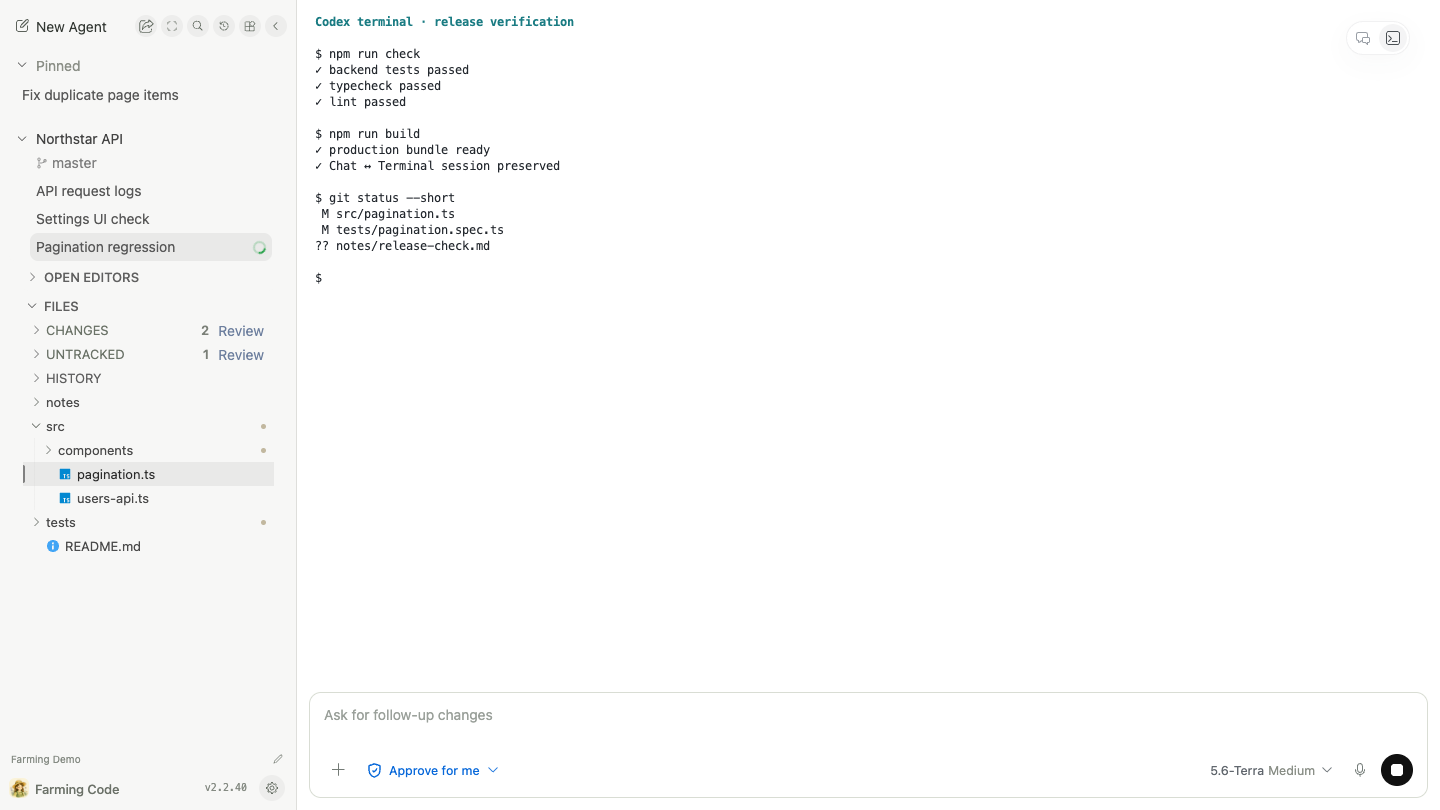
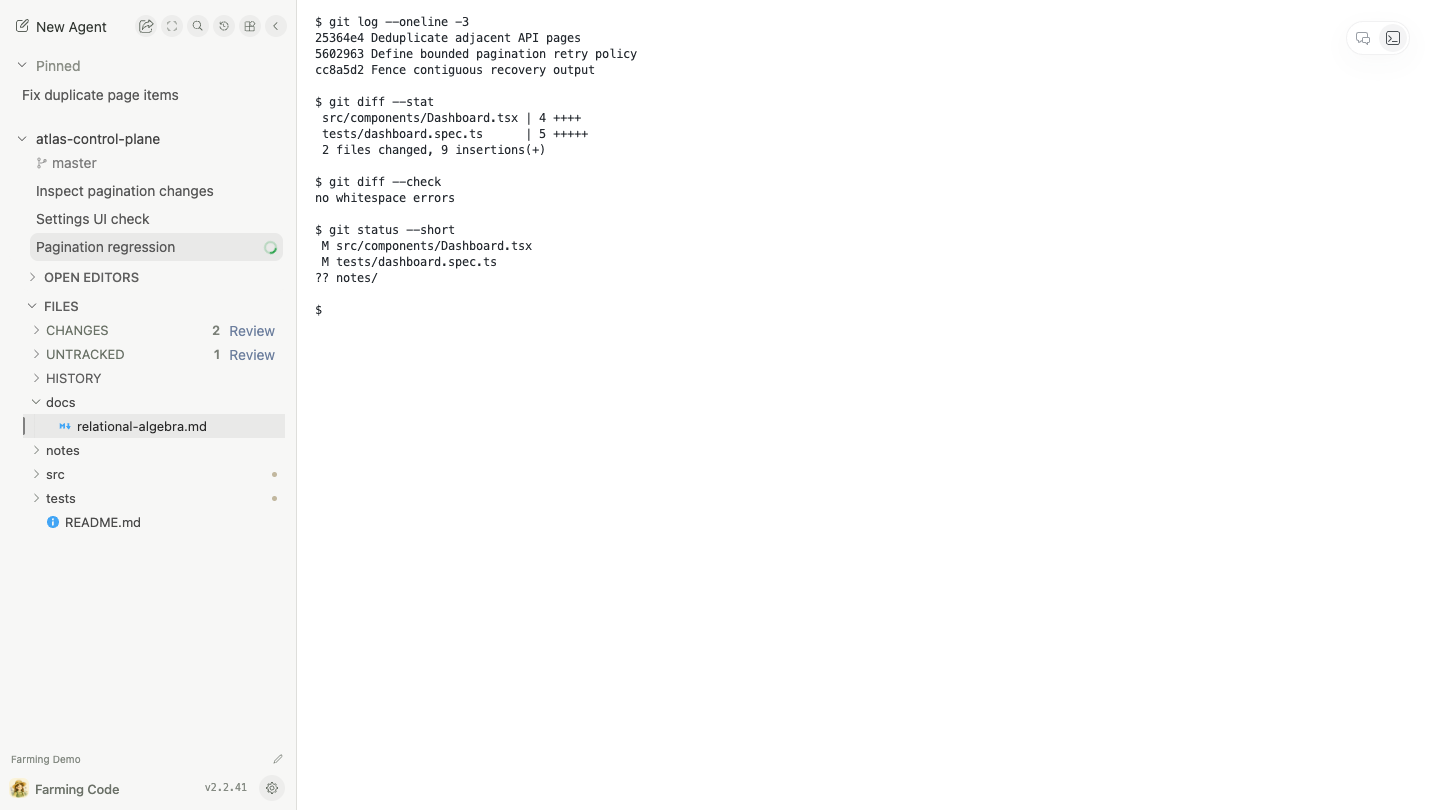
fix(docs): refresh terminal screenshots

diff --git a/scripts/capture-product-screenshots.ts b/scripts/capture-product-screenshots.ts
@@ -35,7 +35,7 @@ const publicCodeScreenshotSpecs = new Map<string, PublicScreenshotSpec>([
   ['08-history-search.png', { fileName: 'history.png', clip: { x: 300, y: 0, width: 1140, height: 810 } }],
   ['09-dark-workspace.png', { fileName: 'workspace-dark.png' }],
   ['11-code-agent-process.png', { fileName: 'chat.png', clip: { x: 300, y: 0, width: 1140, height: 810 } }],
-  ['12-code-terminal-session.png', { fileName: 'terminal.png', clip: { x: 300, y: 0, width: 1140, height: 810 } }],
+  ['12-code-terminal-session.png', { fileName: 'terminal-20260806.png', clip: { x: 300, y: 0, width: 1140, height: 810 } }],
   ['13-code-search.png', { fileName: 'search.png', clip: { x: 300, y: 0, width: 1140, height: 810 } }],
   ['14-code-settings.png', { fileName: 'settings.png', clip: { x: 920, y: 0, width: 520, height: 430 } }],
   ['15-code-usage-activity.png', { fileName: 'usage-activity.png' }],
@@ -47,7 +47,7 @@ const publicCodeScreenshotSpecs = new Map<string, PublicScreenshotSpec>([
 const publicCrtScreenshotSpecs = new Map<string, PublicScreenshotSpec>([
   ['01-crt-dashboard.png', { fileName: 'crt-dashboard.png' }],
   ['02-crt-structured-chat.png', { fileName: 'crt-chat.png' }],
-  ['03-crt-terminal.png', { fileName: 'crt-terminal.png' }],
+  ['03-crt-terminal.png', { fileName: 'crt-terminal-20260806.png' }],
   ['06-crt-billing-days.png', { fileName: 'crt-usage-20260806.png' }],
 ]);
 const screenshotAppearance = process.env.FARMING_SCREENSHOT_APPEARANCE === 'dark' ? 'dark' : 'light';
@@ -112,6 +112,32 @@ function run(command: string, args: string[], options: RunOptions = {}): void {
     env: options.env || process.env,
     stdio: options.stdio || 'ignore',
   });
+}
+
+function commandOutput(command: string, args: string[], cwd = workspaceDir): string {
+  return execFileSync(command, args, {
+    cwd,
+    env: process.env,
+    encoding: 'utf8',
+  }).trimEnd();
+}
+
+function createWorkspaceTerminalTranscript(): string {
+  return [
+    '$ git log --oneline -3',
+    commandOutput('git', ['log', '--oneline', '-3']),
+    '',
+    '$ git diff --stat',
+    commandOutput('git', ['diff', '--stat']),
+    '',
+    '$ git diff --check',
+    'no whitespace errors',
+    '',
+    '$ git status --short',
+    commandOutput('git', ['status', '--short']),
+    '',
+    '$',
+  ].join('\r\n');
 }
 
 function getFreePort() {
@@ -1111,7 +1137,7 @@ async function main() {
     await updateAgent(page, baseUrl, codexAgentId, { pinned: true });
     await updateAgent(page, baseUrl, terminalAgentId, { customTitle: 'Pagination regression' });
     await updateAgent(page, baseUrl, claudeAgentId, { customTitle: 'Settings UI check' });
-    await updateAgent(page, baseUrl, shellAgentId, { customTitle: 'API request logs' });
+    await updateAgent(page, baseUrl, shellAgentId, { customTitle: 'Inspect pagination changes' });
 
     await ensureApp(page);
     await openAgent(page, terminalAgentId);
@@ -1164,12 +1190,17 @@ async function main() {
     await sendAgentInput(page, baseUrl, shellAgentId, 'clear\r');
     await page.waitForTimeout(150);
     await sendAgentInput(page, baseUrl, shellAgentId, [
-      `printf '\\033[1;36mFarming v${packageVersion} release console\\033[0m\\n'`,
-      "printf '\\nSOURCE GATES\\n  backend: 184 passed\\n  typecheck: passed\\n  lint: passed\\n\\nARTIFACT MATRIX\\n  macOS arm64 / x64: verified\\n  Linux arm64 / x64: verified\\n  legacy glibc 2.28: verified\\n  checksums + manifest: verified\\n\\nRUNTIME PROOF\\n  terminal recovery: passed\\n  cross-skin identity: passed\\n  input p95: 58 ms / 250 ms\\n\\nproduction build: ready\\n\\nWORKTREE\\n'",
+      "printf '$ git log --oneline -3\\n'",
+      'git log --oneline -3',
+      "printf '\\n$ git diff --stat\\n'",
+      'git diff --stat',
+      "printf '\\n$ git diff --check\\n'",
+      "git diff --check && printf 'no whitespace errors\\n'",
+      "printf '\\n$ git status --short\\n'",
       'git status --short',
       'stty echo',
     ].join('; ') + '\r');
-    await waitForAgentOutput(page, baseUrl, shellAgentId, 'production build: ready');
+    await waitForAgentOutput(page, baseUrl, shellAgentId, 'no whitespace errors');
     await openAgent(page, codexAgentId);
     const acpProfileResponse = await page.request.patch(`${baseUrl}${basePath}/api/agents/${encodeURIComponent(codexAgentId)}/acp-session`, {
       data: {
@@ -1283,30 +1314,15 @@ async function main() {
     if (requestedScreenshotsComplete()) return;
 
     await openAgent(page, terminalAgentId);
-    await writeTerminalFixture(page, terminalAgentId, [
-      '\u001b[2J\u001b[H\u001b[1;36mCodex terminal · release verification\u001b[0m',
-      '',
-      '$ npm run check',
-      '✓ backend tests passed',
-      '✓ typecheck passed',
-      '✓ lint passed',
-      '',
-      '$ npm run build',
-      '✓ production bundle ready',
-      '✓ Chat ↔ Terminal session preserved',
-      '',
-      '$ git status --short',
-      ' M src/pagination.ts',
-      ' M tests/pagination.spec.ts',
-      '?? notes/release-check.md',
-      '',
-      '$',
-    ].join('\r\n'));
+    await writeTerminalFixture(page, terminalAgentId, `\u001b[2J\u001b[H${createWorkspaceTerminalTranscript()}`);
     await page.getByTestId('code-composer-model-picker').click();
     await page.getByTestId('code-model-matrix-picker').waitFor({ state: 'visible', timeout: 20_000 });
     await screenshot(page, '07-live-model-controls.png');
     await page.keyboard.press('Escape');
     await page.getByTestId('code-model-matrix-picker').waitFor({ state: 'hidden', timeout: 20_000 });
+    const composerCollapse = page.getByTestId('code-composer-collapse');
+    if (await composerCollapse.isVisible()) await composerCollapse.evaluate(element => element.click());
+    await page.getByTestId('code-composer-restore-bar').waitFor({ state: 'visible', timeout: 20_000 });
     await screenshot(page, '12-code-terminal-session.png');
 
     await page.getByTestId('code-nav-search').click();
@@ -1514,7 +1530,7 @@ async function main() {
     });
     await updateAgent(page, baseUrl, crtChatAgentId, { customTitle: 'Audit Chat rendering' });
     await updateAgent(page, baseUrl, crtChatAgentId, { unread: false });
-    await updateAgent(page, baseUrl, shellAgentId, { customTitle: 'Release verification' });
+    await updateAgent(page, baseUrl, shellAgentId, { customTitle: 'Inspect pagination changes' });
     await updateAgent(page, baseUrl, claudeAgentId, { archived: true });
 
     await page.goto(`${basePath}/crt/`, { waitUntil: 'networkidle' });
@@ -1548,7 +1564,7 @@ async function main() {
     await page.goto(`${basePath}/crt/?agent=${encodeURIComponent(shellAgentId)}`, { waitUntil: 'networkidle' });
     await page.locator('#session-modal.active').waitFor({ state: 'visible', timeout: 30_000 });
     await page.locator('#terminal-output .xterm').waitFor({ state: 'visible', timeout: 30_000 });
-    await page.getByText('production build: ready', { exact: false }).waitFor({ state: 'visible', timeout: 30_000 });
+    await page.getByText('no whitespace errors', { exact: false }).waitFor({ state: 'visible', timeout: 30_000 });
     await screenshot(page, '03-crt-terminal.png', crtScreenshotDir);
     await page.getByRole('button', { name: 'Close session, Ctrl+Escape', exact: true }).click();
 

diff --git a/docs-site/cn/code/terminal.md b/docs-site/cn/code/terminal.md
@@ -2,7 +2,7 @@
 
 Terminal 连接 Farming Host 上的真实 PTY。它不是网页中的模拟命令框，而是 Coding CLI、Shell 和开发工具实际运行的地方。
 
-<ThemeImage light="/cn/assets/terminal.png" dark="/cn/assets/terminal-dark.png" alt="Terminal Session" />
+<ThemeImage light="/cn/assets/terminal-20260806.png" dark="/cn/assets/terminal-20260806-dark.png" alt="Terminal Session" />
 
 ## 适合 Terminal 的任务
 

diff --git a/docs-site/cn/crt/overview.md b/docs-site/cn/crt/overview.md
@@ -20,7 +20,7 @@ Farming CRT 是键盘优先的第二界面，用来快速巡视 Agent、Chat、T
 
 ## Terminal
 
-![Farming CRT Terminal](/cn/assets/crt-terminal.png)
+![Farming CRT Terminal](/cn/assets/crt-terminal-20260806.png)
 
 Terminal 连接同一个原生 PTY Session，适合查看完整输出并使用 Coding CLI 自己的交互方式。
 
